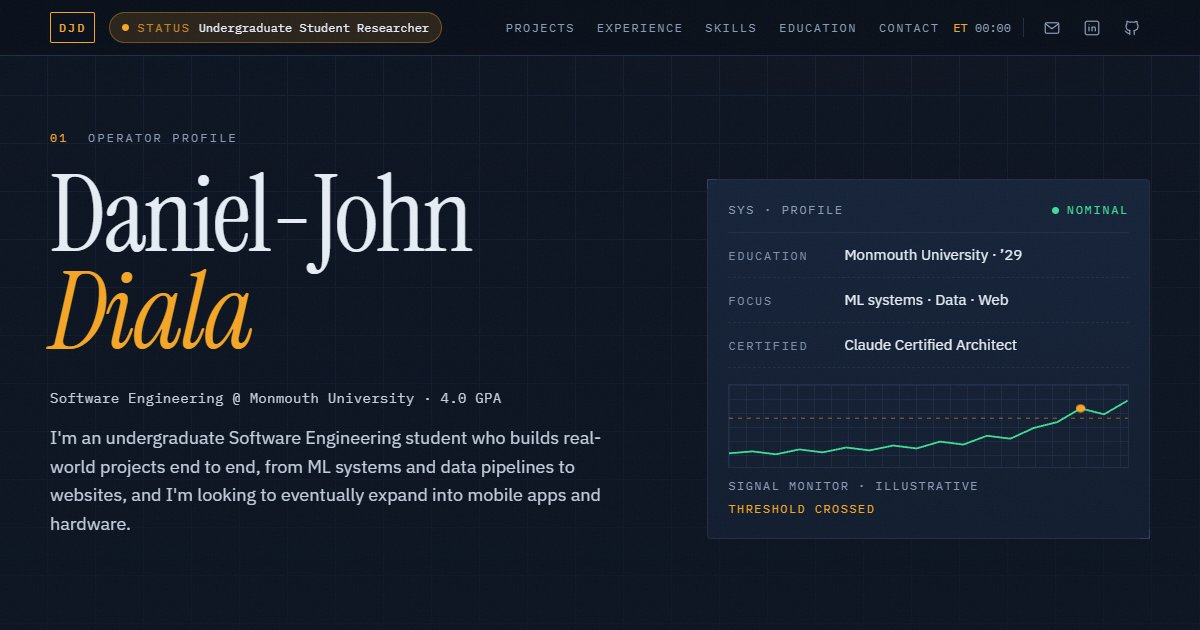
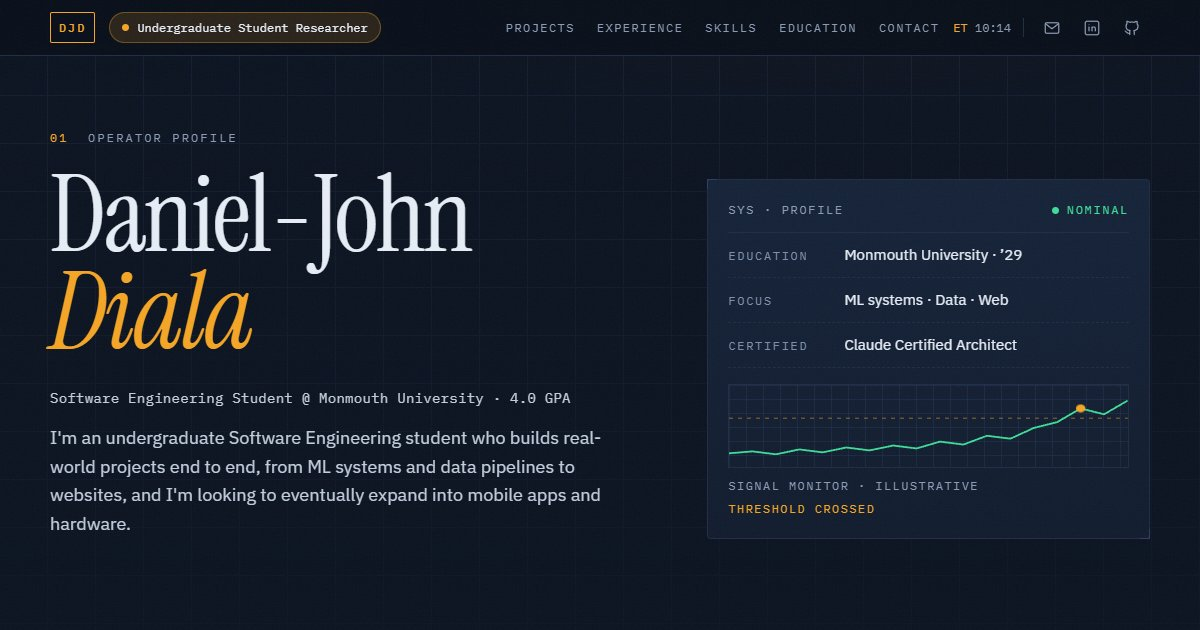
Student wording, researcher meta text, commits stat

diff --git a/index.html b/index.html
@@ -3,10 +3,10 @@
   <head>
     <meta charset="UTF-8" />
     <meta name="viewport" content="width=device-width, initial-scale=1.0" />
-    <title>Daniel-John Diala · Software Engineering</title>
+    <title>Daniel-John Diala · Software Engineering Student</title>
     <meta
       name="description"
-      content="Daniel-John Diala, Software Engineering student at Monmouth University (4.0 GPA). Pulse-Net federated outbreak detection, two live web apps for teaching and research. Seeking Summer 2027 internships."
+      content="Daniel-John Diala, Software Engineering student and undergraduate student researcher at Monmouth University (4.0 GPA). Pulse-Net federated outbreak detection, two live web apps for teaching and research."
     />
     <meta name="theme-color" content="#0a1220" />
     <link rel="icon" type="image/svg+xml" href="/favicon.svg" />
@@ -15,10 +15,10 @@
     <meta property="og:type" content="website" />
     <meta property="og:site_name" content="Daniel-John Diala" />
     <meta property="og:url" content="https://dan-jdiala.github.io/" />
-    <meta property="og:title" content="Daniel-John Diala · Software Engineering" />
+    <meta property="og:title" content="Daniel-John Diala · Software Engineering Student" />
     <meta
       property="og:description"
-      content="Software Engineering student building ML systems, data pipelines, and web apps. Seeking Summer 2027 internships."
+      content="Undergraduate Student Researcher at Monmouth University, building ML systems, data pipelines, and web apps."
     />
     <meta property="og:image" content="https://dan-jdiala.github.io/og.jpg" />
     <meta property="og:image:type" content="image/jpeg" />
@@ -44,7 +44,7 @@
     <noscript>
       <div class="noscript">
         <h1>Daniel-John Diala</h1>
-        <p>Software Engineering @ Monmouth University · 4.0 GPA · Seeking Summer 2027 internships</p>
+        <p>Software Engineering Student @ Monmouth University · 4.0 GPA · Undergraduate Student Researcher</p>
         <ul>
           <li>Pulse-Net: federated pandemic early-warning prototype (PyTorch, FastAPI, PostgreSQL, React)</li>
           <li><a href="https://monmouthaiteaching.com/ccarf">Claude Certified Architect study web app</a> (Next.js, TypeScript)</li>

diff --git a/src/data/site.ts b/src/data/site.ts
@@ -66,7 +66,7 @@ export type Education = {
 
 export const profile: Profile = {
   name: 'Daniel-John Diala',
-  role: 'Software Engineering @ Monmouth University · 4.0 GPA',
+  role: 'Software Engineering Student @ Monmouth University · 4.0 GPA',
   status: 'Undergraduate Student Researcher',
   summary:
     "I'm an undergraduate Software Engineering student who builds real-world projects end to end, from ML systems and data pipelines to websites, and I'm looking to eventually expand into mobile apps and hardware.",
@@ -80,7 +80,7 @@ export const profile: Profile = {
 export const telemetry: Telemetry[] = [
   { id: 'gpa', value: '4.0', label: 'GPA', detail: 'B.S. Software Engineering, Class of 2029' },
   { id: 'live', value: '2', label: 'live web apps', detail: 'Study app + GArel Playground, on AWS' },
-  { id: 'tests', value: '3,500+', label: 'automated tests', detail: 'pytest, Vitest, Playwright across projects' },
+  { id: 'commits', value: '860+', label: 'commits', detail: 'Pulse-Net, GArel research, and the study web app' },
   { id: 'ncl', value: 'Top 4%', label: 'NCL team rank', detail: '127 of 3,638 teams, Spring 2026' },
 ]
 
